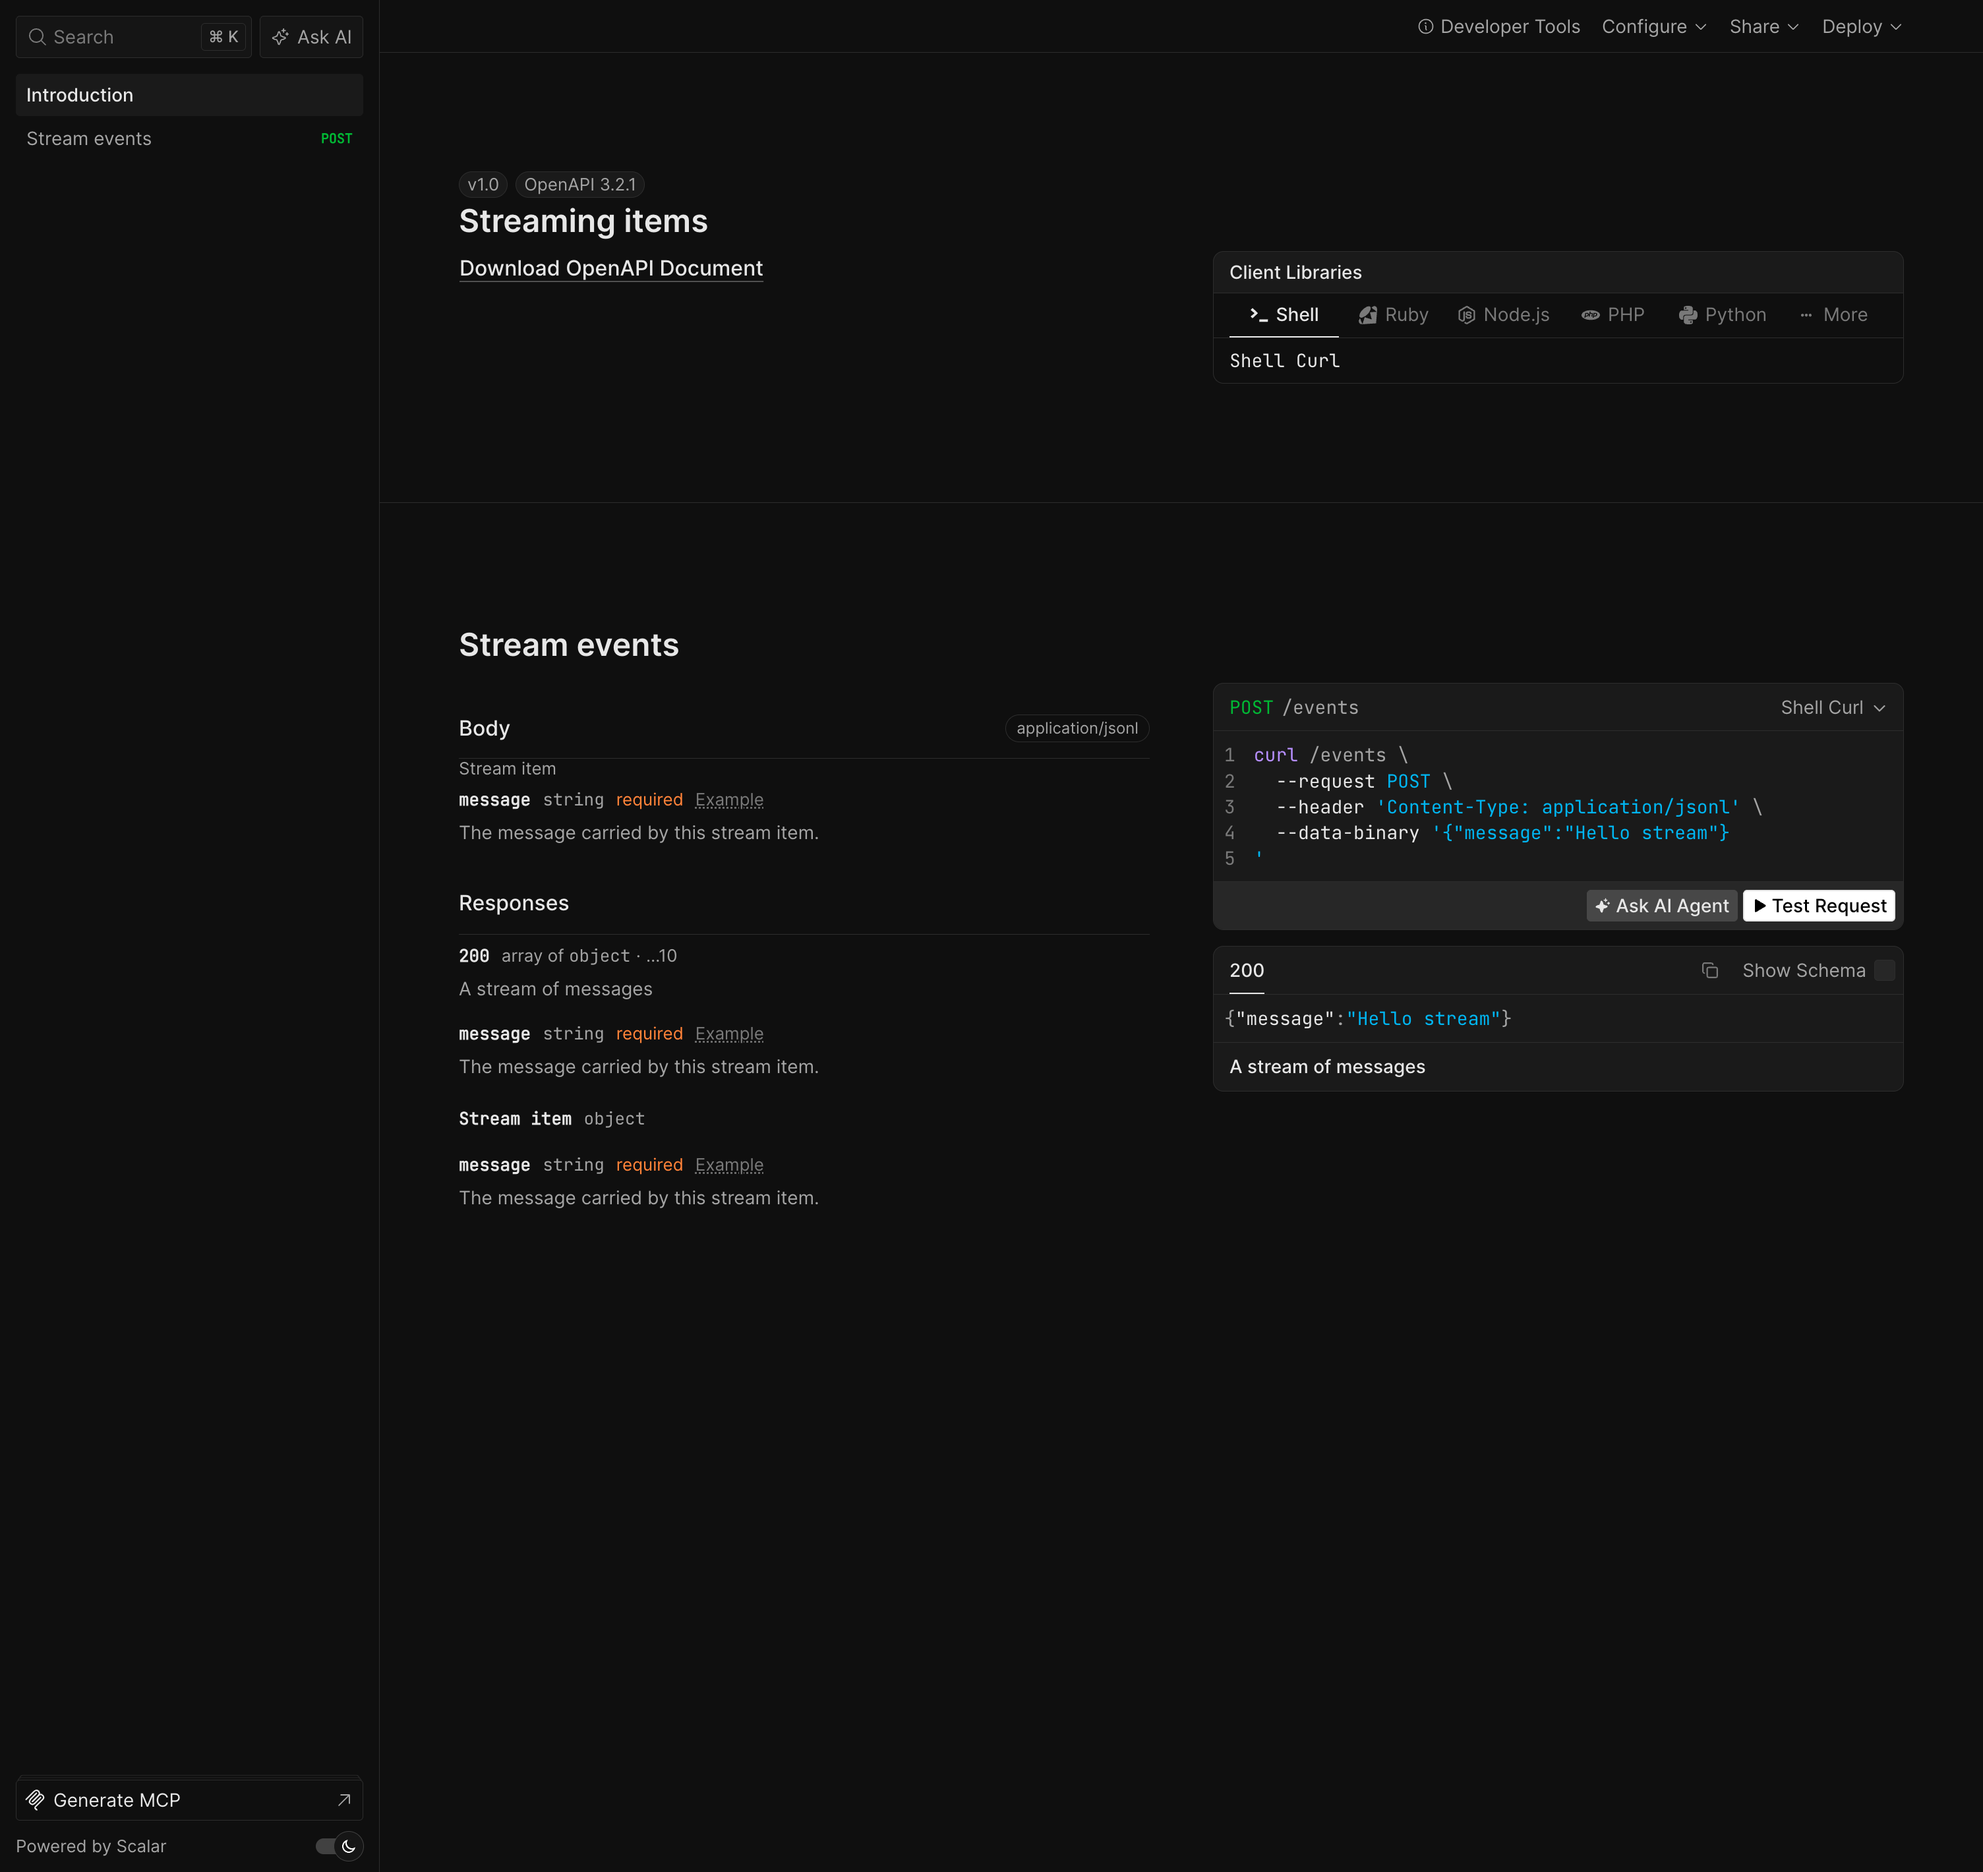
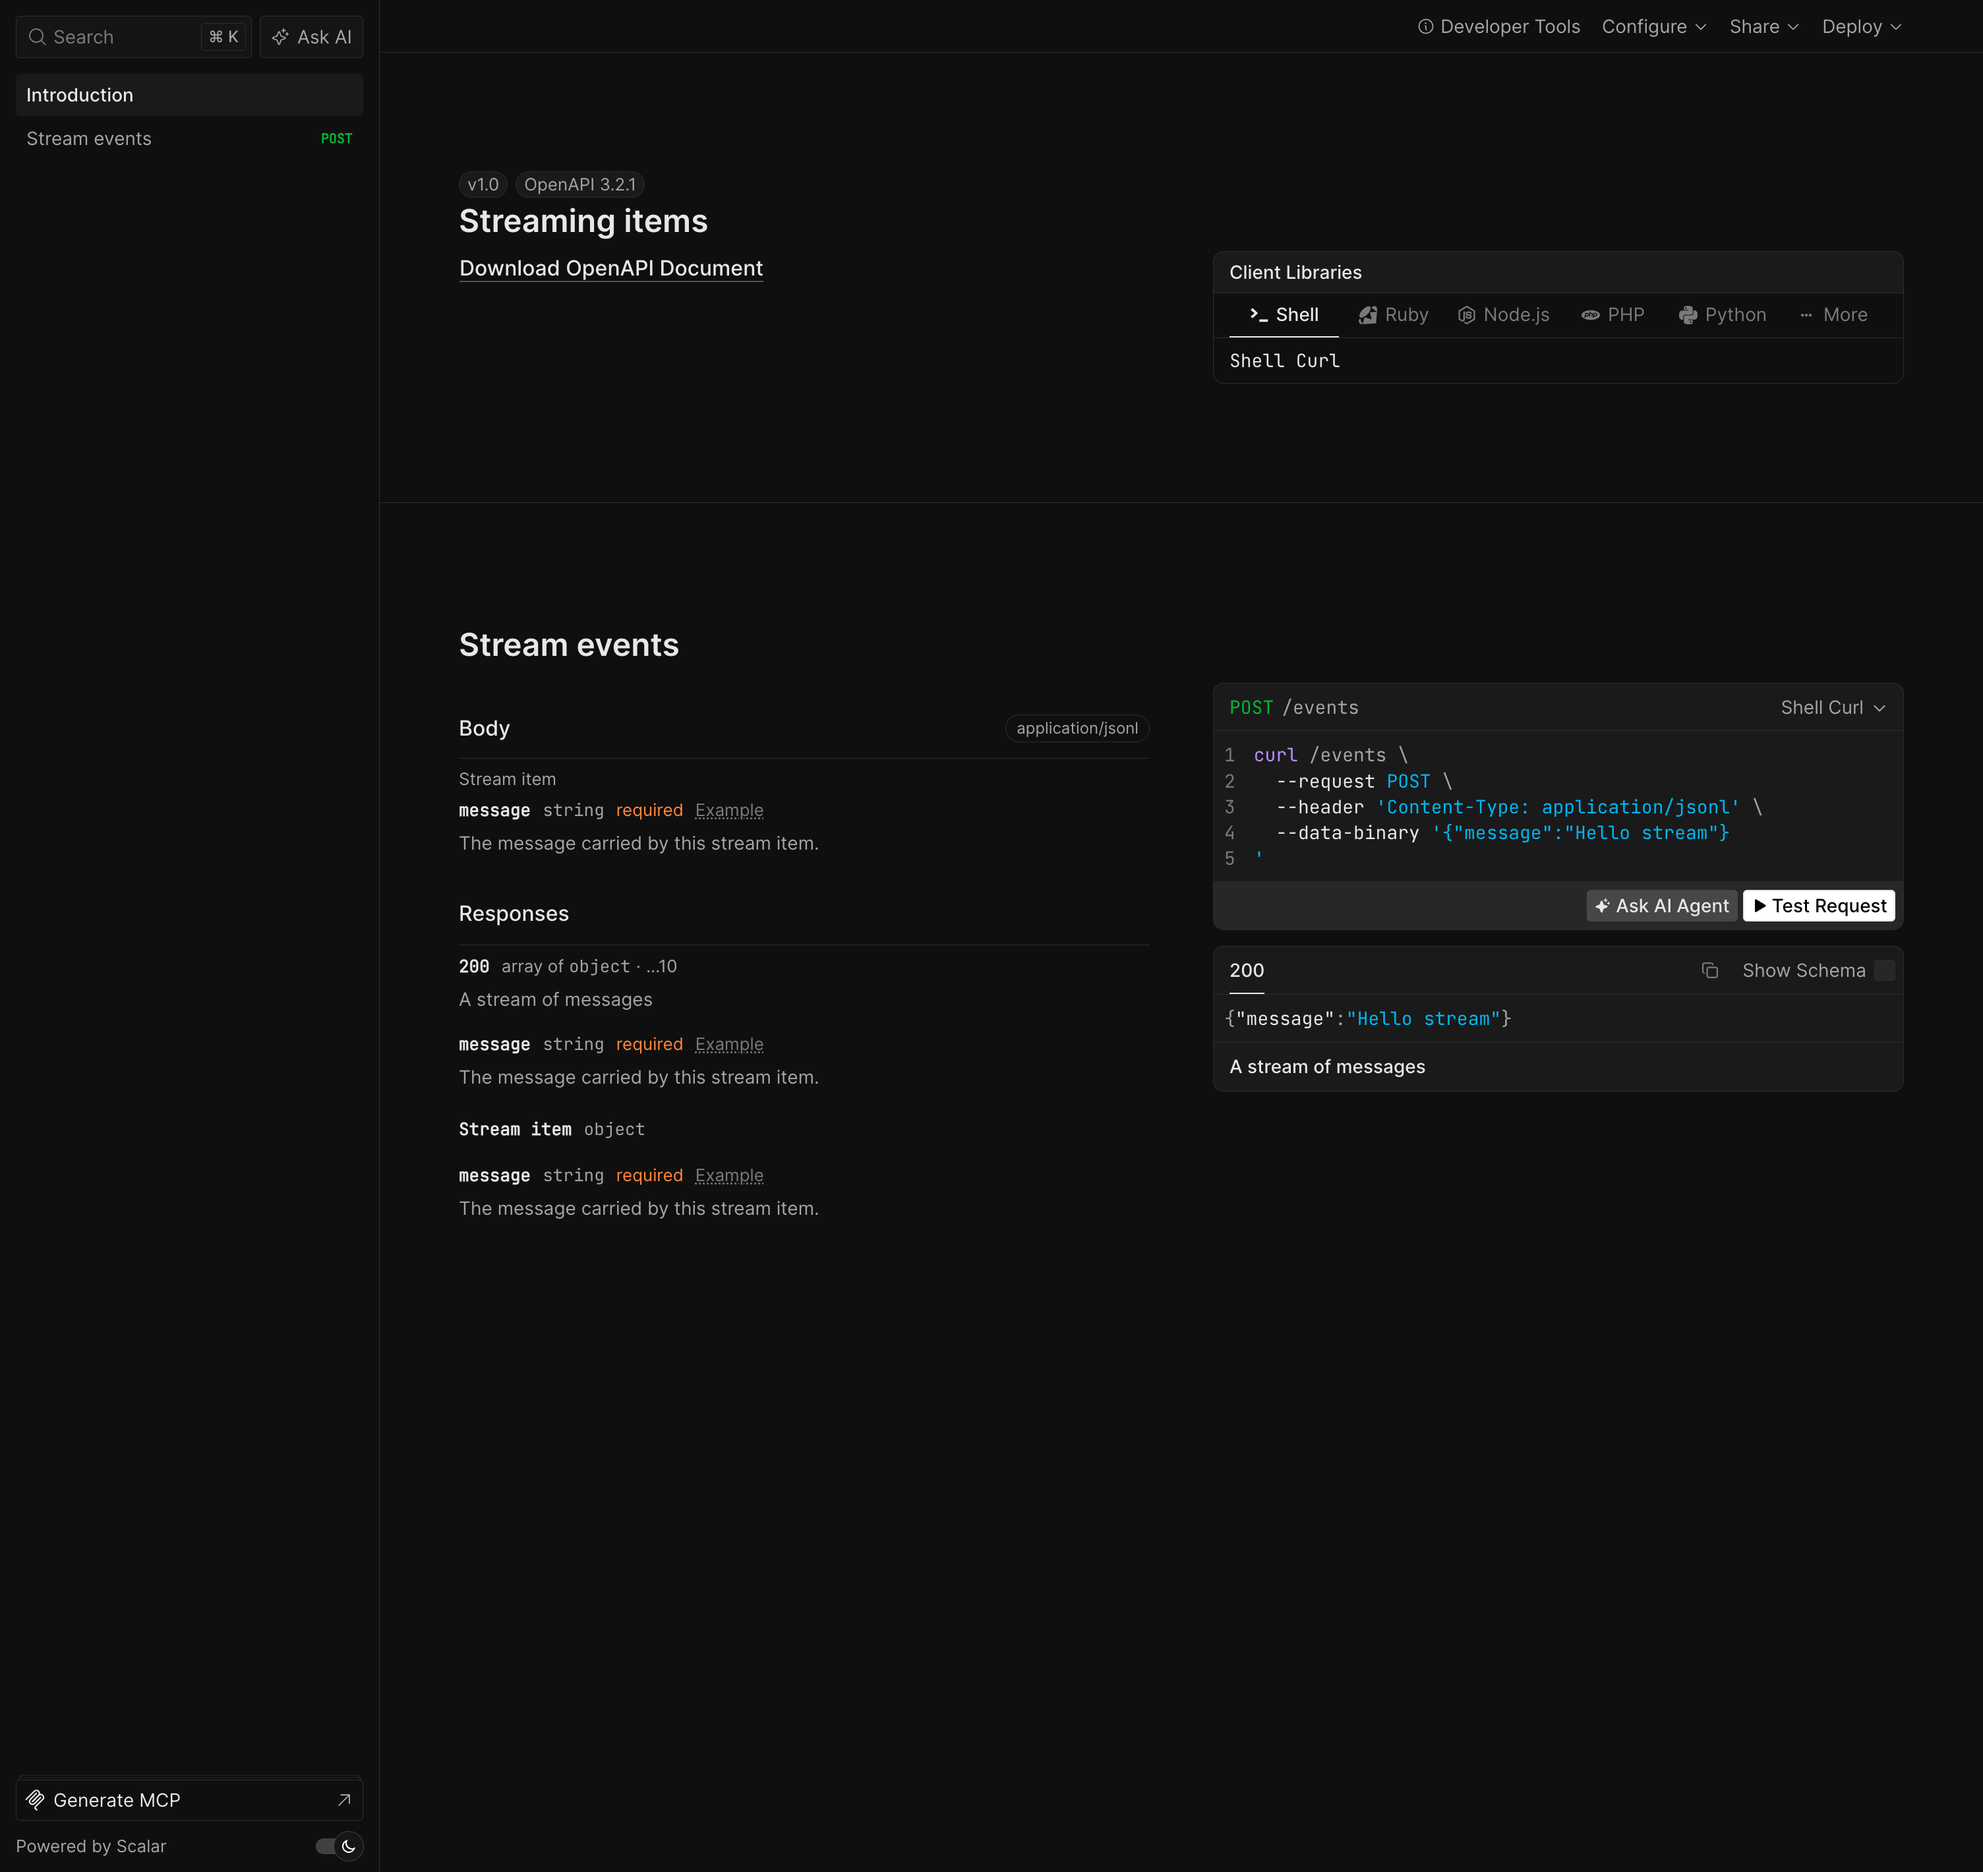
fix(api-reference): space stream item label below divider

Changed region(s): [[0.2188, 0.4028, 0.4062, 0.6507]]

diff --git a/packages/api-reference/src/features/Operation/components/RequestBody.vue b/packages/api-reference/src/features/Operation/components/RequestBody.vue
@@ -211,7 +211,7 @@ const shouldRenderRequestBody = computed(
         requestBody.content?.[selectedContentType]?.itemSchema &&
         !requestBody.content?.[selectedContentType]?.schema
       "
-      class="text-c-2 text-sm">
+      class="text-c-2 pt-2 text-sm">
       Stream item
     </p>
 
